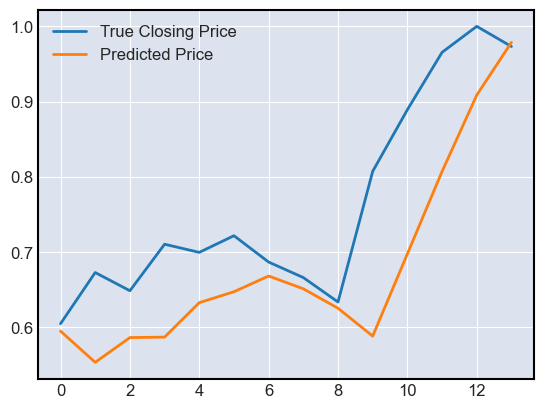
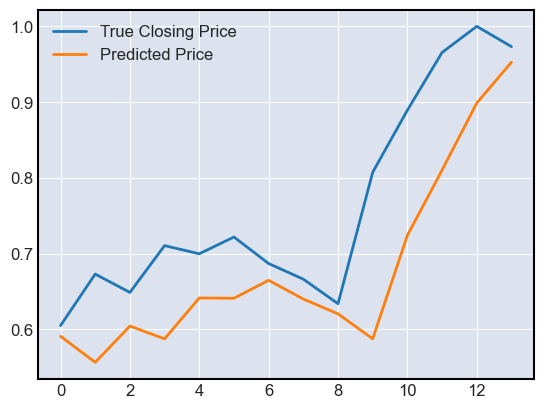
Update documentation

diff --git a/searchindex.js b/searchindex.js
@@ -1,1 +1,1 @@
-Search.setIndex({docnames:["closing-price-prediction/arima","closing-price-prediction/index","closing-price-prediction/lstm-1-dim-input","explore-data","intro"],envversion:{"sphinx.domains.c":2,"sphinx.domains.changeset":1,"sphinx.domains.citation":1,"sphinx.domains.cpp":5,"sphinx.domains.index":1,"sphinx.domains.javascript":2,"sphinx.domains.math":2,"sphinx.domains.python":3,"sphinx.domains.rst":2,"sphinx.domains.std":2,"sphinx.ext.intersphinx":1,sphinx:56},filenames:["closing-price-prediction/arima.ipynb","closing-price-prediction/index.md","closing-price-prediction/lstm-1-dim-input.ipynb","explore-data.ipynb","intro.md"],objects:{},objnames:{},objtypes:{},terms:{"0":[0,2,3],"01":[0,2,3],"010002":3,"011577865958384535":2,"01664142869412899":2,"016662215813994408":2,"01668383739888668":2,"016705825924873352":2,"016727913171052933":2,"016750292852520943":2,"016773303970694542":2,"016796862706542015":2,"016820384189486504":2,"016843432560563087":2,"016866527497768402":2,"016891159117221832":2,"016918601468205452":2,"0169483944773674":2,"01697801798582077":2,"017004510387778282":2,"017026985064148903":2,"01704789325594902":2,"01707168109714985":2,"017101546749472618":2,"017136888578534126":2,"01717354729771614":2,"017206812277436256":2,"017234861850738525":2,"017259947955608368":2,"017286522313952446":2,"017318038269877434":2,"01735501177608967":2,"017395829781889915":2,"017439253628253937":2,"017486074939370155":2,"017537986859679222":2,"017594115808606148":2,"017648622393608093":2,"017692813649773598":2,"01772189699113369":2,"017741497606039047":2,"017767541110515594":2,"01781751587986946":2,"017898280173540115":2,"017999157309532166":2,"01809568703174591":2,"018162639811635017":2,"01818476803600788":2,"018186375498771667":2,"01818901300430298":2,"018216675147414207":2,"01829749159514904":2,"018415948376059532":2,"018544860184192657":2,"01866772398352623":2,"018799010664224625":2,"018974341452121735":2,"019212549552321434":2,"01948295533657074":2,"019712045788764954":2,"01980937272310257":2,"019831420853734016":2,"01983565464615822":2,"019892940297722816":2,"02":[0,2,3],"020004":0,"02017861232161522":2,"020586388185620308":2,"020755939185619354":2,"020838625729084015":2,"02086271531879902":2,"021106231957674026":2,"022146670147776604":2,"023767197504639626":2,"02563677728176117":2,"02739822492003441":2,"027500":[0,2,3],"02750015":2,"028840338811278343":2,"03":[0,2,3],"030016008764505386":2,"031259406358003616":2,"033030010759830475":2,"03554760664701462":2,"03749847":2,"038394104689359665":2,"04":0,"040601544082164764":2,"041609782725572586":2,"04219632223248482":2,"04367609694600105":2,"04499817":2,"04647042974829674":2,"04750061":2,"05":0,"050137586891651154":2,"05250168":2,"054008543491363525":2,"05500031":2,"05749893":2,"05754180625081062":2,"059998":0,"06":[0,2,3],"060001":[0,2,3],"06000137":2,"0604262575507164":2,"06259313225746155":2,"0642218291759491":2,"06499863":2,"06577152013778687":2,"06750107":2,"06802939623594284":2,"07":[0,2,3],"07207663357257843":2,"07886507362127304":2,"08":[0,2,3],"08499908":2,"08670558780431747":2,"0878499448299408":2,"089996":3,"09":0,"09000015":2,"0913994312286377":2,"092499":[0,2,3],"09315524995326996":2,"09487166255712509":2,"09500122":2,"09749985":2,"1":[0,2],"10":[0,2,3],"100":2,"10250092":2,"10499954":2,"1070537120103836":2,"10749817":2,"11":[0,2,3],"11000061":2,"12":2,"12250137":2,"124":3,"125":[2,3],"125000":[0,2,3],"126":[0,3],"127":3,"128":3,"129":3,"12949250638484955":2,"13":2,"14":2,"140105200":[0,2,3],"14250183":2,"144":0,"14500046":2,"14749908":2,"149":0,"15":2,"150":[0,2],"152":0,"153":0,"154":0,"155":0,"156":0,"15634724497795105":2,"157":0,"16":2,"165573600":[0,2,3],"166":0,"16749954":2,"169998":3,"17":2,"179993":3,"18":[0,2],"1867639720439911":2,"19":2,"19250107":2,"2":2,"20":2,"20000076":2,"2017":[0,2,3],"2022":[0,3],"20500183":2,"21":2,"21250153":2,"22":2,"22249985":2,"23":2,"23500061":2,"237594400":[0,2,3],"239998":3,"24":2,"24750137":2,"25":2,"25249863":2,"25749969":2,"25999832":2,"26":[0,2,3],"26750183":2,"27":[0,2,3],"27000046":2,"27249908":2,"27500153":2,"279999":0,"28":[0,2,3],"28499985":2,"29":2,"29000092":2,"3":[0,2,3],"30":2,"30749893":2,"31":[0,2,3],"31000137":2,"3125":2,"31499863":2,"32":2,"320000":[0,2,3],"320007":3,"32749939":2,"33":2,"33000183":2,"339996":0,"34":2,"34249878":2,"35":2,"350006":0,"36":2,"36500168":2,"36999893":2,"37":2,"38":2,"39":2,"4":2,"40":2,"400002":[0,2,3],"40999985":2,"41":[0,2,3],"42":[0,2,3],"420316":0,"43":[0,2,3],"43000031":2,"438392":0,"44":[0,2,3],"449997":3,"45":2,"45000076":2,"456474":0,"45999908":2,"46":2,"47":2,"477501":[0,2,3],"48":2,"49":2,"49250031":2,"49499893":2,"5":2,"50":[0,2,3],"500000":[0,2,3],"50500107":2,"509995":0,"50999832":2,"51":2,"51250076":2,"52":2,"52249908":2,"52999878":2,"53":2,"53499985":2,"53749847":2,"54":2,"55":2,"55362403":2,"55500031":2,"56":2,"56000137":2,"5625":2,"562500":[0,2,3],"564999":[0,2,3],"57":2,"570000":3,"57249832":2,"57749939":2,"58":2,"58000183":2,"580002":3,"582500":[0,2,3],"58250046":2,"5865252":2,"5871462":2,"5874800":3,"58750153":2,"5884776":2,"59":2,"5951205":2,"59749985":2,"6":[2,3],"60":2,"61":2,"61000061":2,"61500168":2,"61999893":2,"62":2,"62549275":2,"63":2,"63290316":2,"63377":3,"63499832":2,"639999":3,"64":2,"64250183":2,"6474109":2,"649994":0,"65":2,"65000153":2,"650002":[0,2,3],"6513091":2,"66":2,"66249847":2,"665001":[0,2,3],"66749954":2,"6682987":2,"66999817":2,"67":2,"67750168":2,"68":2,"68249893":2,"69":2,"697739":2,"699997":3,"7":[2,3],"70":2,"702499":[0,2,3],"70249939":2,"71":2,"7121000":3,"71749878":2,"72":2,"720001":3,"7293200":3,"73":2,"73500061":2,"74":2,"74000168":2,"740005":[0,3],"74250031":2,"747501":[0,2,3],"74750137":2,"75":2,"75249863":2,"75749969":2,"76":2,"76250076":2,"76750183":2,"77":2,"77000046":2,"770004":0,"77500153":2,"77750015":2,"779999":[0,2,3],"78":2,"78749847":2,"79":2,"79000092":2,"8":2,"80":2,"800003":0,"8071953":2,"81":2,"81000137":2,"812500":[0,2,3],"8139100":3,"81499863":2,"81750107":2,"81999969":2,"82":2,"82500076":2,"83":2,"83499908":2,"84":2,"84000015":2,"84249878":2,"85":2,"85749817":2,"86":2,"87":2,"875":2,"87749863":2,"88":2,"88499832":2,"889999":3,"89":2,"8948500":3,"9":[2,3],"90":2,"90250015":2,"90750122":2,"90866446":2,"91":2,"91249847":2,"92":2,"92499924":2,"93":2,"930000":[0,2,3],"94":2,"94499969":2,"95":2,"95500183":2,"95750046":2,"96":2,"96250153":2,"97":2,"97000122":2,"97446000":[0,2,3],"97499847":2,"97638000":[0,2,3],"9787087":2,"98":2,"99":2,"99000168":2,"990005":3,"99250031":2,"99499893":2,"import":[0,2,3],"int":[0,2],"return":2,"super":2,"true":[0,2,3],And:0,In:2,It:0,The:2,__init__:2,aapl:[0,2,3],abbv:3,abnb:3,acn:3,adam:2,amzn:3,an:[0,4],analyz:2,appl:[0,2],ar:0,arang:2,arima:[1,4],arima_0_1_18:0,arima_18_1_0:0,arima_1_0_0:0,arrai:2,asml:3,assum:0,avgo:3,azn:3,ba:3,baba:3,bac:3,backward:2,batch:2,batch_first:2,befor:1,begin:2,bia:2,bidu:3,c0:2,c:3,c_n:2,calcul:2,candl:[2,3],choos:2,clear:2,close:[3,4],closing_pric:2,closing_test:0,closing_train:0,column:3,compani:[0,2,3],comput:2,connect:2,consid:[0,2],consist:2,cop:3,criterion:2,csco:3,csv:[0,2,3],cvx:3,d:0,d_close:0,daili:[1,2],data:3,data_dir:[0,2],date:[0,2,3],datetimeindex:0,def:2,detach:2,dhr:3,di:3,diff:0,differ:0,dtype:[0,2,3],e:2,ebai:3,either:0,end:[0,2],energi:3,epoch:2,f:2,fact:2,fair:1,fc:2,feature_rang:2,first:1,fit_transform:2,float32:2,float64:0,forward:2,freq:0,from:[0,2],fulli:2,get:2,goog:3,gradient:2,graphic:0,grid:0,gs:3,h0:2,h:2,h_n:2,ha:2,hd:3,head:[0,2,3],hidden:2,hidden_s:2,high:[0,2,3],highest:2,hsbc:3,i:2,ibm:3,iloc:2,in_featur:2,index:[0,3],index_col:[0,2,3],inform:2,initi:2,input_s:2,its:0,jnj:3,join:[0,2],jpm:3,l:2,label:2,lag:0,last:2,layer:2,legend:2,len:[0,2],length:[0,2],linear:2,lly:3,low:[0,2,3],lowest:2,lr:2,lstm:[1,4],lulu:3,ma:0,mai:0,make:1,make_batch:2,make_dot:2,matplotlib:[0,2,3],mav:3,mcd:3,mean:2,mean_squared_error:2,meta:3,method:0,metric:2,minmaxscal:2,modul:2,mpf:[0,2,3],mplfinanc:[0,2,3],mrk:3,ms:3,mseloss:2,msft:3,must:1,n:2,name:0,ndarrai:2,need:0,nflx:3,nke:3,nn:2,notebook:[2,4],np:[0,2,3],num_dai:2,num_lay:2,numpi:[0,2,3],nvda:3,nvo:3,object:3,onli:2,open:[0,2,3],optimis:2,orcl:3,order:0,os:[0,2],our:4,out_featur:2,outlin:4,output:2,output_s:2,panda:[0,2,3],paramet:2,parse_d:[0,2,3],path:[0,2],pd:[0,2,3],period:0,pfe:3,plot:[0,2,3],plot_acf:0,plot_pacf:0,plt:[0,2,3],predict:4,predicted_mean:0,preprocess:2,price:4,print:2,project:4,propag:2,pyplot:[0,2,3],rang:2,read_csv:[0,2,3],reason:0,reduct:2,requires_grad:2,reshap:2,row:3,rtx:3,sbux:3,scaler:2,sector:[0,2,3],seem:0,self:2,seq:2,sequenc:2,seri:2,serv:4,settl:1,shape:2,shel:3,show:[0,2],size:2,sklearn:2,split:[0,2],start:0,statespac:0,stationari:0,statsmodel:0,step:2,stock:[0,2,3],strategi:1,suitabl:0,t:2,technolog:[0,2,3],test_d:2,test_siz:[0,2],thi:[2,4],through:2,time:2,tloss:2,tm:3,tmo:3,to_numpi:2,to_period:0,tool:0,torch:2,torchsummari:2,torchviz:2,trade:1,train_d:2,tsa:0,tsaplot:0,tsla:3,tsm:3,type:[2,3],ub:3,unh:3,updat:2,us:2,v:3,valu:2,value_count:3,volum:[0,2,3],want:2,we:[0,1,2],where:2,window_s:2,x:2,x_test:2,x_test_tensor:2,x_train:2,x_train_tensor:2,xom:3,y:2,y_hat:2,y_pred:2,y_test:2,y_test_tensor:2,y_train:2,y_train_tensor:2,ywm:0,zero:2,zero_grad:2},titles:["Closing Price Prediction with ARIMA","Closing Price Prediction","Closing Price Prediction with LSTM","&lt;no title&gt;","Making Money in Stocks"],titleterms:{"class":2,"function":2,acf:0,arima:0,candid:0,close:[0,1,2],construct:2,convert:2,data:[0,2],dataset:[0,2],definit:2,differenc:0,fit:0,loss:2,lstm:2,make:4,model:[0,2],monei:4,optim:2,origin:0,pacf:0,predict:[0,1,2],prepar:0,price:[0,1,2],process:2,scale:2,seri:0,specif:0,stock:4,summari:2,tensor:2,test:[0,2],train:[0,2]}})
+Search.setIndex({docnames:["closing-price-prediction/arima","closing-price-prediction/index","closing-price-prediction/lstm-1-dim-input","explore-data","intro"],envversion:{"sphinx.domains.c":2,"sphinx.domains.changeset":1,"sphinx.domains.citation":1,"sphinx.domains.cpp":5,"sphinx.domains.index":1,"sphinx.domains.javascript":2,"sphinx.domains.math":2,"sphinx.domains.python":3,"sphinx.domains.rst":2,"sphinx.domains.std":2,"sphinx.ext.intersphinx":1,sphinx:56},filenames:["closing-price-prediction/arima.ipynb","closing-price-prediction/index.md","closing-price-prediction/lstm-1-dim-input.ipynb","explore-data.ipynb","intro.md"],objects:{},objnames:{},objtypes:{},terms:{"0":[0,2,3],"01":[0,2,3],"010002":3,"010904227049505149":2,"015337088145315647":2,"015408231876790524":2,"015474509447813034":2,"01553357020020485":2,"015588335692882538":2,"015637224540114403":2,"015683624893426895":2,"01572556421160698":2,"01576702482998371":2,"015805451199412346":2,"01584494486451149":2,"01588274911046028":2,"015921298414468765":2,"015959011390805244":2,"015995116904377937":2,"016032397747039795":2,"016066862270236015":2,"01610606163740158":2,"0161440446972847":2,"0161870326846838":2,"016232194378972054":2,"01627594232559204":2,"01632431335747242":2,"01636647991836071":2,"016412125900387764":2,"016459360718727112":2,"016503559425473213":2,"01655779778957367":2,"016607489436864853":2,"016655663028359413":2,"016709668561816216":2,"01675243489444256":2,"016799552366137505":2,"016858581453561783":2,"016913127154111862":2,"016978910192847252":2,"017059413716197014":2,"01712782308459282":2,"01719030737876892":2,"0172630213201046":2,"017326494678854942":2,"01737864688038826":2,"017453385517001152":2,"017549794167280197":2,"017636990174651146":2,"017725452780723572":2,"01783350110054016":2,"017920061945915222":2,"017954958602786064":2,"017985664308071136":2,"018045345321297646":2,"018100792542099953":2,"01814671978354454":2,"018236108124256134":2,"018371134996414185":2,"018457358703017235":2,"018465127795934677":2,"018470698967576027":2,"018488222733139992":2,"01852300763130188":2,"01858259178698063":2,"018889984115958214":2,"01950795017182827":2,"02":[0,2,3],"020004":0,"02003602311015129":2,"020342573523521423":2,"02060878649353981":2,"020625874400138855":2,"020753907039761543":2,"020915431901812553":2,"020916040986776352":2,"021037744358181953":2,"021298015490174294":2,"02235811948776245":2,"024135928601026535":2,"026048194617033005":2,"027500":[0,2,3],"02750015":2,"02794933132827282":2,"03":[0,2,3],"030549608170986176":2,"03450867533683777":2,"03749847":2,"03910699859261513":2,"04":0,"04271431639790535":2,"04499817":2,"045490991324186325":2,"04750061":2,"04935852065682411":2,"05":0,"05250168":2,"0530543215572834":2,"054530829191207886":2,"05500031":2,"056722491979599":2,"05749893":2,"059998":0,"06":[0,2,3],"060001":[0,2,3],"06000137":2,"06188463419675827":2,"06499863":2,"06750107":2,"06793186068534851":2,"07":[0,2,3],"07306914031505585":2,"07697021961212158":2,"08":[0,2,3],"08044838905334473":2,"08455851674079895":2,"08499908":2,"0898747593164444":2,"089996":3,"09":0,"09000015":2,"092499":[0,2,3],"09500122":2,"09617475420236588":2,"09749985":2,"1":[0,2],"10":[0,2,3],"100":2,"10222075134515762":2,"10250092":2,"10499954":2,"10606660693883896":2,"10716337710618973":2,"10749817":2,"10970385372638702":2,"11":[0,2,3],"11000061":2,"11766986548900604":2,"12":2,"12250137":2,"124":3,"125":[2,3],"125000":[0,2,3],"126":[0,3],"127":3,"128":3,"129":3,"13":2,"13115860521793365":2,"14":2,"140105200":[0,2,3],"14250183":2,"144":0,"14500046":2,"14749908":2,"149":0,"15":2,"150":[0,2],"15013092756271362":2,"152":0,"153":0,"154":0,"155":0,"156":0,"157":0,"16":2,"165573600":[0,2,3],"166":0,"16749954":2,"169998":3,"17":2,"179993":3,"18":[0,2],"19":2,"19250107":2,"2":2,"20":2,"20000076":2,"2017":[0,2,3],"2022":[0,3],"20500183":2,"21":2,"21250153":2,"22":2,"22249985":2,"23":2,"23500061":2,"237594400":[0,2,3],"239998":3,"24":2,"24750137":2,"25":2,"25249863":2,"25749969":2,"25999832":2,"26":[0,2,3],"26750183":2,"27":[0,2,3],"27000046":2,"27249908":2,"27500153":2,"279999":0,"28":[0,2,3],"28499985":2,"29":2,"29000092":2,"3":[0,2,3],"30":2,"30749893":2,"31":[0,2,3],"31000137":2,"3125":2,"31499863":2,"32":2,"320000":[0,2,3],"320007":3,"32749939":2,"33":2,"33000183":2,"339996":0,"34":2,"34249878":2,"35":2,"350006":0,"36":2,"36500168":2,"36999893":2,"37":2,"38":2,"39":2,"4":2,"40":2,"400002":[0,2,3],"40999985":2,"41":[0,2,3],"42":[0,2,3],"420316":0,"43":[0,2,3],"43000031":2,"438392":0,"44":[0,2,3],"449997":3,"45":2,"45000076":2,"456474":0,"45999908":2,"46":2,"47":2,"477501":[0,2,3],"48":2,"49":2,"49250031":2,"49499893":2,"5":2,"50":[0,2,3],"500000":[0,2,3],"50500107":2,"509995":0,"50999832":2,"51":2,"51250076":2,"52":2,"52249908":2,"52999878":2,"53":2,"53499985":2,"53749847":2,"54":2,"55":2,"55500031":2,"5564104":2,"56":2,"56000137":2,"5625":2,"562500":[0,2,3],"564999":[0,2,3],"57":2,"570000":3,"57249832":2,"57749939":2,"58":2,"58000183":2,"580002":3,"582500":[0,2,3],"58250046":2,"5873997":2,"58746636":2,"5874800":3,"58750153":2,"59":2,"5908277":2,"59749985":2,"6":[2,3],"60":2,"6043092":2,"61":2,"61000061":2,"61500168":2,"61999893":2,"62":2,"62040246":2,"63":2,"63377":3,"63499832":2,"63996315":2,"639999":3,"64":2,"64100516":2,"6414286":2,"64250183":2,"649994":0,"65":2,"65000153":2,"650002":[0,2,3],"66":2,"66249847":2,"6647415":2,"665001":[0,2,3],"66749954":2,"66999817":2,"67":2,"67750168":2,"68":2,"68249893":2,"69":2,"699997":3,"7":[2,3],"70":2,"702499":[0,2,3],"70249939":2,"71":2,"7121000":3,"71749878":2,"72":2,"720001":3,"72402555":2,"7293200":3,"73":2,"73500061":2,"74":2,"74000168":2,"740005":[0,3],"74250031":2,"747501":[0,2,3],"74750137":2,"75":2,"75249863":2,"75749969":2,"76":2,"76250076":2,"76750183":2,"77":2,"77000046":2,"770004":0,"77500153":2,"77750015":2,"779999":[0,2,3],"78":2,"78749847":2,"79":2,"79000092":2,"8":2,"80":2,"800003":0,"81":2,"81000137":2,"81023514":2,"812500":[0,2,3],"8139100":3,"81499863":2,"81750107":2,"81999969":2,"82":2,"82500076":2,"83":2,"83499908":2,"84":2,"84000015":2,"84249878":2,"85":2,"85749817":2,"86":2,"87":2,"875":2,"87749863":2,"88":2,"88499832":2,"889999":3,"89":2,"8948500":3,"8986763":2,"9":[2,3],"90":2,"90250015":2,"90750122":2,"91":2,"91249847":2,"92":2,"92499924":2,"93":2,"930000":[0,2,3],"94":2,"94499969":2,"95":2,"9526169":2,"95500183":2,"95750046":2,"96":2,"96250153":2,"97":2,"97000122":2,"97446000":[0,2,3],"97499847":2,"97638000":[0,2,3],"98":2,"99":2,"99000168":2,"990005":3,"99250031":2,"99499893":2,"import":[0,2,3],"int":[0,2],"return":2,"super":2,"true":[0,2,3],And:0,In:2,It:0,The:2,__init__:2,aapl:[0,2,3],abbv:3,abnb:3,acn:3,adam:2,amzn:3,an:[0,4],analyz:2,appl:[0,2],ar:0,arang:2,arima:[1,4],arima_0_1_18:0,arima_18_1_0:0,arima_1_0_0:0,arrai:2,asml:3,assum:0,avgo:3,azn:3,ba:3,baba:3,bac:3,backward:2,batch:2,batch_first:2,befor:1,begin:2,bia:2,bidu:3,c0:2,c:3,c_n:2,calcul:2,candl:[2,3],choos:2,clear:2,close:[3,4],closing_pric:2,closing_test:0,closing_train:0,column:3,compani:[0,2,3],comput:2,connect:2,consid:[0,2],consist:2,cop:3,criterion:2,csco:3,csv:[0,2,3],cvx:3,d:0,d_close:0,daili:[1,2],data:3,data_dir:[0,2],date:[0,2,3],datetimeindex:0,def:2,detach:2,dhr:3,di:3,diff:0,differ:0,dtype:[0,2,3],e:2,ebai:3,either:0,end:[0,2],energi:3,epoch:2,f:2,fact:2,fair:1,fc:2,feature_rang:2,first:1,fit_transform:2,float32:2,float64:0,forward:2,freq:0,from:[0,2],fulli:2,get:2,goog:3,gradient:2,graphic:0,grid:0,gs:3,h0:2,h:2,h_n:2,ha:2,hd:3,head:[0,2,3],hidden:2,hidden_s:2,high:[0,2,3],highest:2,hsbc:3,i:2,ibm:3,iloc:2,in_featur:2,index:[0,3],index_col:[0,2,3],inform:2,initi:2,input_s:2,its:0,jnj:3,join:[0,2],jpm:3,l:2,label:2,lag:0,last:2,layer:2,legend:2,len:[0,2],length:[0,2],linear:2,lly:3,low:[0,2,3],lowest:2,lr:2,lstm:[1,4],lulu:3,ma:0,mai:0,make:1,make_batch:2,make_dot:2,matplotlib:[0,2,3],mav:3,mcd:3,mean:2,mean_squared_error:2,meta:3,method:0,metric:2,minmaxscal:2,modul:2,mpf:[0,2,3],mplfinanc:[0,2,3],mrk:3,ms:3,mseloss:2,msft:3,must:1,n:2,name:0,ndarrai:2,need:0,nflx:3,nke:3,nn:2,notebook:[2,4],np:[0,2,3],num_dai:2,num_lay:2,numpi:[0,2,3],nvda:3,nvo:3,object:3,onli:2,open:[0,2,3],optimis:2,orcl:3,order:0,os:[0,2],our:4,out_featur:2,outlin:4,output:2,output_s:2,panda:[0,2,3],paramet:2,parse_d:[0,2,3],path:[0,2],pd:[0,2,3],period:0,pfe:3,plot:[0,2,3],plot_acf:0,plot_pacf:0,plt:[0,2,3],predict:4,predicted_mean:0,preprocess:2,price:4,print:2,project:4,propag:2,pyplot:[0,2,3],rang:2,read_csv:[0,2,3],reason:0,reduct:2,requires_grad:2,reshap:2,row:3,rtx:3,sbux:3,scaler:2,sector:[0,2,3],seem:0,self:2,seq:2,sequenc:2,seri:2,serv:4,settl:1,shape:2,shel:3,show:[0,2],size:2,sklearn:2,split:[0,2],start:0,statespac:0,stationari:0,statsmodel:0,step:2,stock:[0,2,3],strategi:1,suitabl:0,t:2,technolog:[0,2,3],test_d:2,test_siz:[0,2],thi:[2,4],through:2,time:2,tloss:2,tm:3,tmo:3,to_numpi:2,to_period:0,tool:0,torch:2,torchsummari:2,torchviz:2,trade:1,train_d:2,tsa:0,tsaplot:0,tsla:3,tsm:3,type:[2,3],ub:3,unh:3,updat:2,us:2,v:3,valu:2,value_count:3,volum:[0,2,3],want:2,we:[0,1,2],where:2,window_s:2,x:2,x_test:2,x_test_tensor:2,x_train:2,x_train_tensor:2,xom:3,y:2,y_hat:2,y_pred:2,y_test:2,y_test_tensor:2,y_train:2,y_train_tensor:2,ywm:0,zero:2,zero_grad:2},titles:["Closing Price Prediction with ARIMA","Closing Price Prediction","Closing Price Prediction with LSTM","&lt;no title&gt;","Making Money in Stocks"],titleterms:{"class":2,"function":2,acf:0,arima:0,candid:0,close:[0,1,2],construct:2,convert:2,data:[0,2],dataset:[0,2],definit:2,differenc:0,fit:0,loss:2,lstm:2,make:4,model:[0,2],monei:4,optim:2,origin:0,pacf:0,predict:[0,1,2],prepar:0,price:[0,1,2],process:2,scale:2,seri:0,specif:0,stock:4,summari:2,tensor:2,test:[0,2],train:[0,2]}})

diff --git a/closing-price-prediction/lstm-1-dim-input.html b/closing-price-prediction/lstm-1-dim-input.html
@@ -1006,108 +1006,108 @@ title="Print to PDF"
 </div>
 </div>
 <div class="cell_output docutils container">
-<div class="output stream highlight-myst-ansi notranslate"><div class="highlight"><pre><span></span>epoch:	0	loss:	0.1867639720439911
-epoch:	1	loss:	0.15634724497795105
-epoch:	2	loss:	0.12949250638484955
-epoch:	3	loss:	0.1070537120103836
-epoch:	4	loss:	0.0913994312286377
-epoch:	5	loss:	0.08670558780431747
-epoch:	6	loss:	0.09315524995326996
-epoch:	7	loss:	0.09487166255712509
-epoch:	8	loss:	0.0878499448299408
-epoch:	9	loss:	0.07886507362127304
-epoch:	10	loss:	0.07207663357257843
-epoch:	11	loss:	0.06802939623594284
-epoch:	12	loss:	0.06577152013778687
-epoch:	13	loss:	0.0642218291759491
-epoch:	14	loss:	0.06259313225746155
-epoch:	15	loss:	0.0604262575507164
-epoch:	16	loss:	0.05754180625081062
-epoch:	17	loss:	0.054008543491363525
-epoch:	18	loss:	0.050137586891651154
-epoch:	19	loss:	0.04647042974829674
-epoch:	20	loss:	0.04367609694600105
-epoch:	21	loss:	0.04219632223248482
-epoch:	22	loss:	0.041609782725572586
-epoch:	23	loss:	0.040601544082164764
-epoch:	24	loss:	0.038394104689359665
-epoch:	25	loss:	0.03554760664701462
-epoch:	26	loss:	0.033030010759830475
-epoch:	27	loss:	0.031259406358003616
-epoch:	28	loss:	0.030016008764505386
-epoch:	29	loss:	0.028840338811278343
-epoch:	30	loss:	0.02739822492003441
-epoch:	31	loss:	0.02563677728176117
-epoch:	32	loss:	0.023767197504639626
-epoch:	33	loss:	0.022146670147776604
-epoch:	34	loss:	0.021106231957674026
-epoch:	35	loss:	0.020755939185619354
-epoch:	36	loss:	0.020838625729084015
-epoch:	37	loss:	0.02086271531879902
-epoch:	38	loss:	0.020586388185620308
-epoch:	39	loss:	0.02017861232161522
-epoch:	40	loss:	0.019892940297722816
-epoch:	41	loss:	0.01980937272310257
-epoch:	42	loss:	0.01983565464615822
-epoch:	43	loss:	0.019831420853734016
-epoch:	44	loss:	0.019712045788764954
-epoch:	45	loss:	0.01948295533657074
-epoch:	46	loss:	0.019212549552321434
-epoch:	47	loss:	0.018974341452121735
+<div class="output stream highlight-myst-ansi notranslate"><div class="highlight"><pre><span></span>epoch:	0	loss:	0.15013092756271362
+epoch:	1	loss:	0.13115860521793365
+epoch:	2	loss:	0.11766986548900604
+epoch:	3	loss:	0.10970385372638702
+epoch:	4	loss:	0.10716337710618973
+epoch:	5	loss:	0.10606660693883896
+epoch:	6	loss:	0.10222075134515762
+epoch:	7	loss:	0.09617475420236588
+epoch:	8	loss:	0.0898747593164444
+epoch:	9	loss:	0.08455851674079895
+epoch:	10	loss:	0.08044838905334473
+epoch:	11	loss:	0.07697021961212158
+epoch:	12	loss:	0.07306914031505585
+epoch:	13	loss:	0.06793186068534851
+epoch:	14	loss:	0.06188463419675827
+epoch:	15	loss:	0.056722491979599
+epoch:	16	loss:	0.054530829191207886
+epoch:	17	loss:	0.0530543215572834
+epoch:	18	loss:	0.04935852065682411
+epoch:	19	loss:	0.045490991324186325
+epoch:	20	loss:	0.04271431639790535
+epoch:	21	loss:	0.03910699859261513
+epoch:	22	loss:	0.03450867533683777
+epoch:	23	loss:	0.030549608170986176
+epoch:	24	loss:	0.02794933132827282
+epoch:	25	loss:	0.026048194617033005
+epoch:	26	loss:	0.024135928601026535
+epoch:	27	loss:	0.02235811948776245
+epoch:	28	loss:	0.021298015490174294
+epoch:	29	loss:	0.021037744358181953
+epoch:	30	loss:	0.020916040986776352
+epoch:	31	loss:	0.02060878649353981
+epoch:	32	loss:	0.020625874400138855
+epoch:	33	loss:	0.020915431901812553
+epoch:	34	loss:	0.020753907039761543
+epoch:	35	loss:	0.020342573523521423
+epoch:	36	loss:	0.02003602311015129
+epoch:	37	loss:	0.01950795017182827
+epoch:	38	loss:	0.018889984115958214
+epoch:	39	loss:	0.01858259178698063
+epoch:	40	loss:	0.01852300763130188
+epoch:	41	loss:	0.018488222733139992
+epoch:	42	loss:	0.018457358703017235
+epoch:	43	loss:	0.018470698967576027
+epoch:	44	loss:	0.018465127795934677
+epoch:	45	loss:	0.018371134996414185
+epoch:	46	loss:	0.018236108124256134
+epoch:	47	loss:	0.01814671978354454
+epoch:	48	loss:	0.018100792542099953
+epoch:	49	loss:	0.018045345321297646
+epoch:	50	loss:	0.017985664308071136
+epoch:	51	loss:	0.017954958602786064
+epoch:	52	loss:	0.017920061945915222
+epoch:	53	loss:	0.01783350110054016
+epoch:	54	loss:	0.017725452780723572
+epoch:	55	loss:	0.017636990174651146
+epoch:	56	loss:	0.017549794167280197
+epoch:	57	loss:	0.017453385517001152
+epoch:	58	loss:	0.01737864688038826
 </pre></div>
 </div>
-<div class="output stream highlight-myst-ansi notranslate"><div class="highlight"><pre><span></span>epoch:	48	loss:	0.018799010664224625
-epoch:	49	loss:	0.01866772398352623
-epoch:	50	loss:	0.018544860184192657
-epoch:	51	loss:	0.018415948376059532
-epoch:	52	loss:	0.01829749159514904
-epoch:	53	loss:	0.018216675147414207
-epoch:	54	loss:	0.01818476803600788
-epoch:	55	loss:	0.018186375498771667
-epoch:	56	loss:	0.01818901300430298
-epoch:	57	loss:	0.018162639811635017
-epoch:	58	loss:	0.01809568703174591
-epoch:	59	loss:	0.017999157309532166
-epoch:	60	loss:	0.017898280173540115
-epoch:	61	loss:	0.01781751587986946
-epoch:	62	loss:	0.017767541110515594
-epoch:	63	loss:	0.017741497606039047
-epoch:	64	loss:	0.01772189699113369
-epoch:	65	loss:	0.017692813649773598
-epoch:	66	loss:	0.017648622393608093
-epoch:	67	loss:	0.017594115808606148
-epoch:	68	loss:	0.017537986859679222
-epoch:	69	loss:	0.017486074939370155
-epoch:	70	loss:	0.017439253628253937
-epoch:	71	loss:	0.017395829781889915
-epoch:	72	loss:	0.01735501177608967
-epoch:	73	loss:	0.017318038269877434
-epoch:	74	loss:	0.017286522313952446
-epoch:	75	loss:	0.017259947955608368
-epoch:	76	loss:	0.017234861850738525
-epoch:	77	loss:	0.017206812277436256
-epoch:	78	loss:	0.01717354729771614
-epoch:	79	loss:	0.017136888578534126
-epoch:	80	loss:	0.017101546749472618
-epoch:	81	loss:	0.01707168109714985
-epoch:	82	loss:	0.01704789325594902
-epoch:	83	loss:	0.017026985064148903
-epoch:	84	loss:	0.017004510387778282
-epoch:	85	loss:	0.01697801798582077
-epoch:	86	loss:	0.0169483944773674
-epoch:	87	loss:	0.016918601468205452
-epoch:	88	loss:	0.016891159117221832
-epoch:	89	loss:	0.016866527497768402
-epoch:	90	loss:	0.016843432560563087
-epoch:	91	loss:	0.016820384189486504
-epoch:	92	loss:	0.016796862706542015
-epoch:	93	loss:	0.016773303970694542
-epoch:	94	loss:	0.016750292852520943
-epoch:	95	loss:	0.016727913171052933
-epoch:	96	loss:	0.016705825924873352
-epoch:	97	loss:	0.01668383739888668
-epoch:	98	loss:	0.016662215813994408
-epoch:	99	loss:	0.01664142869412899
+<div class="output stream highlight-myst-ansi notranslate"><div class="highlight"><pre><span></span>epoch:	59	loss:	0.017326494678854942
+epoch:	60	loss:	0.0172630213201046
+epoch:	61	loss:	0.01719030737876892
+epoch:	62	loss:	0.01712782308459282
+epoch:	63	loss:	0.017059413716197014
+epoch:	64	loss:	0.016978910192847252
+epoch:	65	loss:	0.016913127154111862
+epoch:	66	loss:	0.016858581453561783
+epoch:	67	loss:	0.016799552366137505
+epoch:	68	loss:	0.01675243489444256
+epoch:	69	loss:	0.016709668561816216
+epoch:	70	loss:	0.016655663028359413
+epoch:	71	loss:	0.016607489436864853
+epoch:	72	loss:	0.01655779778957367
+epoch:	73	loss:	0.016503559425473213
+epoch:	74	loss:	0.016459360718727112
+epoch:	75	loss:	0.016412125900387764
+epoch:	76	loss:	0.01636647991836071
+epoch:	77	loss:	0.01632431335747242
+epoch:	78	loss:	0.01627594232559204
+epoch:	79	loss:	0.016232194378972054
+epoch:	80	loss:	0.0161870326846838
+epoch:	81	loss:	0.0161440446972847
+epoch:	82	loss:	0.01610606163740158
+epoch:	83	loss:	0.016066862270236015
+epoch:	84	loss:	0.016032397747039795
+epoch:	85	loss:	0.015995116904377937
+epoch:	86	loss:	0.015959011390805244
+epoch:	87	loss:	0.015921298414468765
+epoch:	88	loss:	0.01588274911046028
+epoch:	89	loss:	0.01584494486451149
+epoch:	90	loss:	0.015805451199412346
+epoch:	91	loss:	0.01576702482998371
+epoch:	92	loss:	0.01572556421160698
+epoch:	93	loss:	0.015683624893426895
+epoch:	94	loss:	0.015637224540114403
+epoch:	95	loss:	0.015588335692882538
+epoch:	96	loss:	0.01553357020020485
+epoch:	97	loss:	0.015474509447813034
+epoch:	98	loss:	0.015408231876790524
+epoch:	99	loss:	0.015337088145315647
 </pre></div>
 </div>
 </div>
@@ -1120,20 +1120,20 @@ epoch:	99	loss:	0.01664142869412899
 </div>
 </div>
 <div class="cell_output docutils container">
-<div class="output text_plain highlight-myst-ansi notranslate"><div class="highlight"><pre><span></span>array([[0.5951205 ],
-       [0.55362403],
-       [0.5865252 ],
-       [0.5871462 ],
-       [0.63290316],
-       [0.6474109 ],
-       [0.6682987 ],
-       [0.6513091 ],
-       [0.62549275],
-       [0.5884776 ],
-       [0.697739  ],
-       [0.8071953 ],
-       [0.90866446],
-       [0.9787087 ]], dtype=float32)
+<div class="output text_plain highlight-myst-ansi notranslate"><div class="highlight"><pre><span></span>array([[0.5908277 ],
+       [0.5564104 ],
+       [0.6043092 ],
+       [0.5873997 ],
+       [0.6414286 ],
+       [0.64100516],
+       [0.6647415 ],
+       [0.63996315],
+       [0.62040246],
+       [0.58746636],
+       [0.72402555],
+       [0.81023514],
+       [0.8986763 ],
+       [0.9526169 ]], dtype=float32)
 </pre></div>
 </div>
 </div>
@@ -1159,7 +1159,7 @@ epoch:	99	loss:	0.01664142869412899
 </div>
 </div>
 <div class="cell_output docutils container">
-<div class="output text_plain highlight-myst-ansi notranslate"><div class="highlight"><pre><span></span>0.011577865958384535
+<div class="output text_plain highlight-myst-ansi notranslate"><div class="highlight"><pre><span></span>0.010904227049505149
 </pre></div>
 </div>
 </div>

diff --git a/_static/mystyle.css b/_static/mystyle.css
@@ -1,3 +1,4 @@
 table {
+    display: block; /* this line is necessary */
     overflow: scroll;
 }
